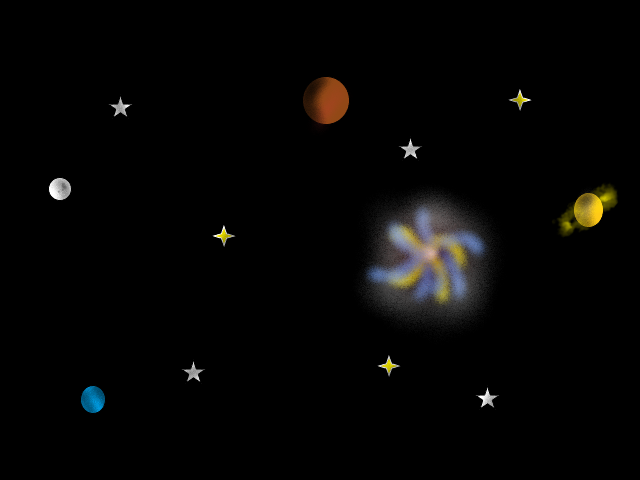
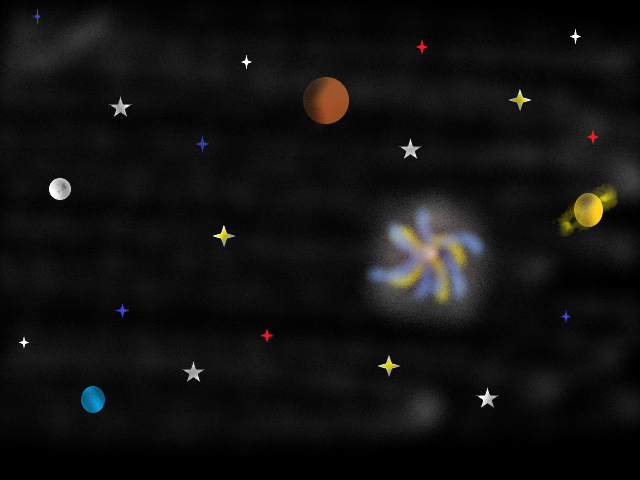
Main Menu Title added

diff --git a/src/scenes/Menu.js b/src/scenes/Menu.js
@@ -8,6 +8,7 @@ class Menu extends Phaser.Scene {
         this.load.audio('sfx_select', './assets/blip_select12.wav');
         this.load.audio('sfx_explosion', './assets/explosion38.wav');
         this.load.audio('sfx_rocket', './assets/rocket_shot.wav');
+        this.load.image('mainmenu', './assets/mainmenu.png');
       }
 
     create(){
@@ -25,12 +26,14 @@ class Menu extends Phaser.Scene {
                 fixedWidth: 0
             }
 
+            //load main menu png
+            this.mainmenu = this.add.tileSprite(0,0,game.config.width,game.config.height, 'mainmenu').setOrigin(0,0);
             //show menu text
-            this.add.text(game.config.width/2, game.config.height/2 - borderUISize - borderPadding, 'ROCKET PATROL', menuConfig).setOrigin(0.5);
-            this.add.text(game.config.width/2, game.config.height/2, 'Use <- -> arrows to move & (F) to fire', menuConfig).setOrigin(0.5);
-            menuConfig.backgroundColor = '#00FF00';
-            menuConfig.color = '#000';
-            this.add.text(game.config.width/2, game.config.height/2 + borderUISize + borderPadding, 'Press <- for Novice or -> for Expert', menuConfig).setOrigin(0.5);
+            //this.add.text(game.config.width/2, game.config.height/2 - borderUISize - borderPadding, 'ROCKET PATROL', menuConfig).setOrigin(0.5);
+            //this.add.text(game.config.width/2, game.config.height/2, 'Use <- -> arrows to move & (F) to fire', menuConfig).setOrigin(0.5);
+            //menuConfig.backgroundColor = '#00FF00';
+            //menuConfig.color = '#000';
+            //this.add.text(game.config.width/2, game.config.height/2 + borderUISize + borderPadding, 'Press <- for Novice or -> for Expert', menuConfig).setOrigin(0.5);
 
             // define keys
         keyLEFT = this.input.keyboard.addKey(Phaser.Input.Keyboard.KeyCodes.LEFT);
